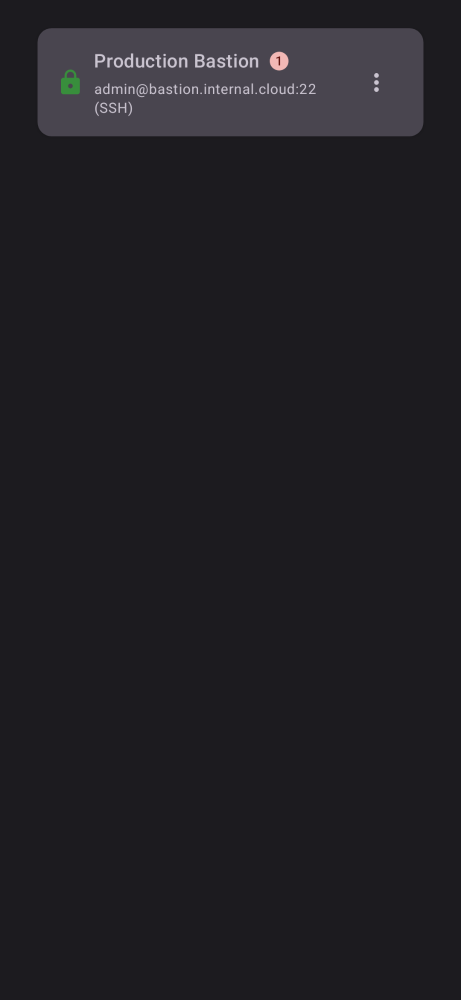
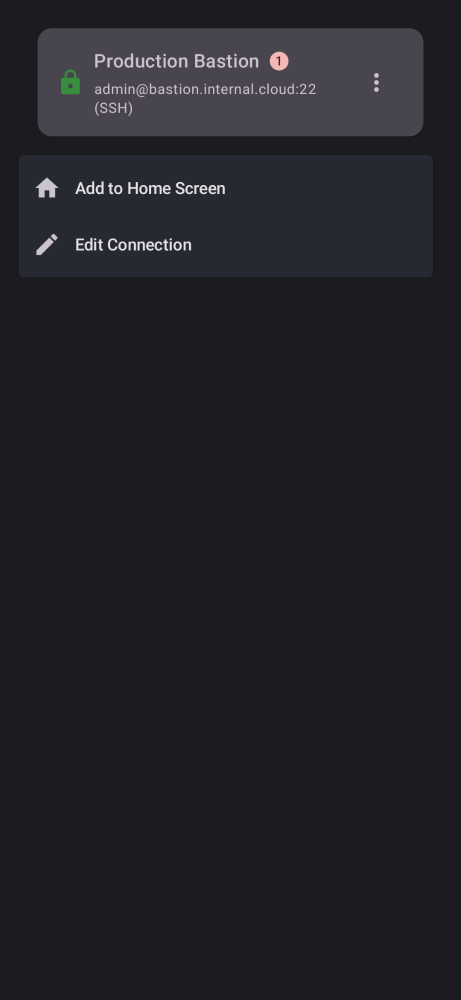
fix(terminal): attach TerminalSession before styling TerminalView, update SSH-225 shortcut menu snapshot

Changed region(s): [[0.1518, 0.186, 0.4859, 0.248], [0.0607, 0.155, 0.1215, 0.248], [0.0607, 0.248, 0.0911, 0.279]]

diff --git a/app/src/test/kotlin/com/adamoutler/ssh/ui/screens/connectionlist/components/ShortcutActionScreenshotTest.kt b/app/src/test/kotlin/com/adamoutler/ssh/ui/screens/connectionlist/components/ShortcutActionScreenshotTest.kt
@@ -3,6 +3,9 @@ package com.adamoutler.ssh.ui.screens.connectionlist.components
 import androidx.compose.foundation.layout.Box
 import androidx.compose.foundation.layout.fillMaxWidth
 import androidx.compose.foundation.layout.padding
+import androidx.compose.material.icons.Icons
+import androidx.compose.material.icons.filled.Edit
+import androidx.compose.material.icons.filled.Home
 import androidx.compose.material3.Surface
 import androidx.compose.ui.Modifier
 import androidx.compose.ui.unit.dp
@@ -37,15 +40,55 @@ class ShortcutActionScreenshotTest {
             CoSSHTheme(darkTheme = true) {
                 Surface {
                     Box(modifier = Modifier.padding(16.dp).fillMaxWidth()) {
-                        ConnectionItem(
-                            profile = sampleProfile,
-                            activeCount = 1,
-                            isReordering = false,
-                            onClick = {},
-                            onEdit = {},
-                            onAddToHomeScreen = {},
-                            initialMenuExpanded = true,
-                        )
+                        androidx.compose.foundation.layout.Column {
+                            ConnectionItem(
+                                profile = sampleProfile,
+                                activeCount = 1,
+                                isReordering = false,
+                                onClick = {},
+                                onEdit = {},
+                                onAddToHomeScreen = {},
+                                initialMenuExpanded = false,
+                            )
+                            androidx.compose.foundation.layout.Spacer(modifier = Modifier.padding(top = 8.dp))
+                            // Render the contextual menu surface directly so Paparazzi captures the "Add to Home Screen" action
+                            androidx.compose.foundation.layout.Box(
+                                modifier = Modifier.fillMaxWidth(),
+                                contentAlignment = androidx.compose.ui.Alignment.TopEnd,
+                            ) {
+                                Surface(
+                                    shape = androidx.compose.material3.MaterialTheme.shapes.extraSmall,
+                                    tonalElevation = 3.dp,
+                                    shadowElevation = 3.dp,
+                                    modifier = Modifier.padding(end = 8.dp),
+                                ) {
+                                    androidx.compose.foundation.layout.Column(
+                                        modifier = Modifier.padding(vertical = 4.dp),
+                                    ) {
+                                        androidx.compose.material3.DropdownMenuItem(
+                                            text = { androidx.compose.material3.Text("Add to Home Screen") },
+                                            leadingIcon = {
+                                                androidx.compose.material3.Icon(
+                                                    androidx.compose.material.icons.Icons.Filled.Home,
+                                                    contentDescription = null,
+                                                )
+                                            },
+                                            onClick = {},
+                                        )
+                                        androidx.compose.material3.DropdownMenuItem(
+                                            text = { androidx.compose.material3.Text("Edit Connection") },
+                                            leadingIcon = {
+                                                androidx.compose.material3.Icon(
+                                                    androidx.compose.material.icons.Icons.Filled.Edit,
+                                                    contentDescription = null,
+                                                )
+                                            },
+                                            onClick = {},
+                                        )
+                                    }
+                                }
+                            }
+                        }
                     }
                 }
             }

diff --git a/app/src/main/kotlin/com/adamoutler/ssh/ui/components/TerminalScreen.kt b/app/src/main/kotlin/com/adamoutler/ssh/ui/components/TerminalScreen.kt
@@ -587,6 +587,7 @@ fun TerminalScreenContent(
                     },
                     factory = { ctx ->
                         val terminalView = TerminalView(ctx, null)
+                        terminalView.attachSession(session)
                         resolvedTheme.applyTo(terminalView, session)
                         terminalView.setTypeface(resolvedFont.getTypeface())
                         terminalView.setTextSize((currentFontSize * density.density * density.fontScale).toInt())
@@ -828,10 +829,10 @@ fun TerminalScreenContent(
                     },
                     update = { view ->
                         val tv = (view as android.widget.FrameLayout).getChildAt(0) as TerminalView
+                        tv.attachSession(session)
                         tv.setTextSize((currentFontSize * density.density * density.fontScale).toInt())
                         tv.setTypeface(resolvedFont.getTypeface())
                         resolvedTheme.applyTo(tv, session)
-                        tv.attachSession(session)
                         tv.onScreenUpdated()
                     },
                 )
